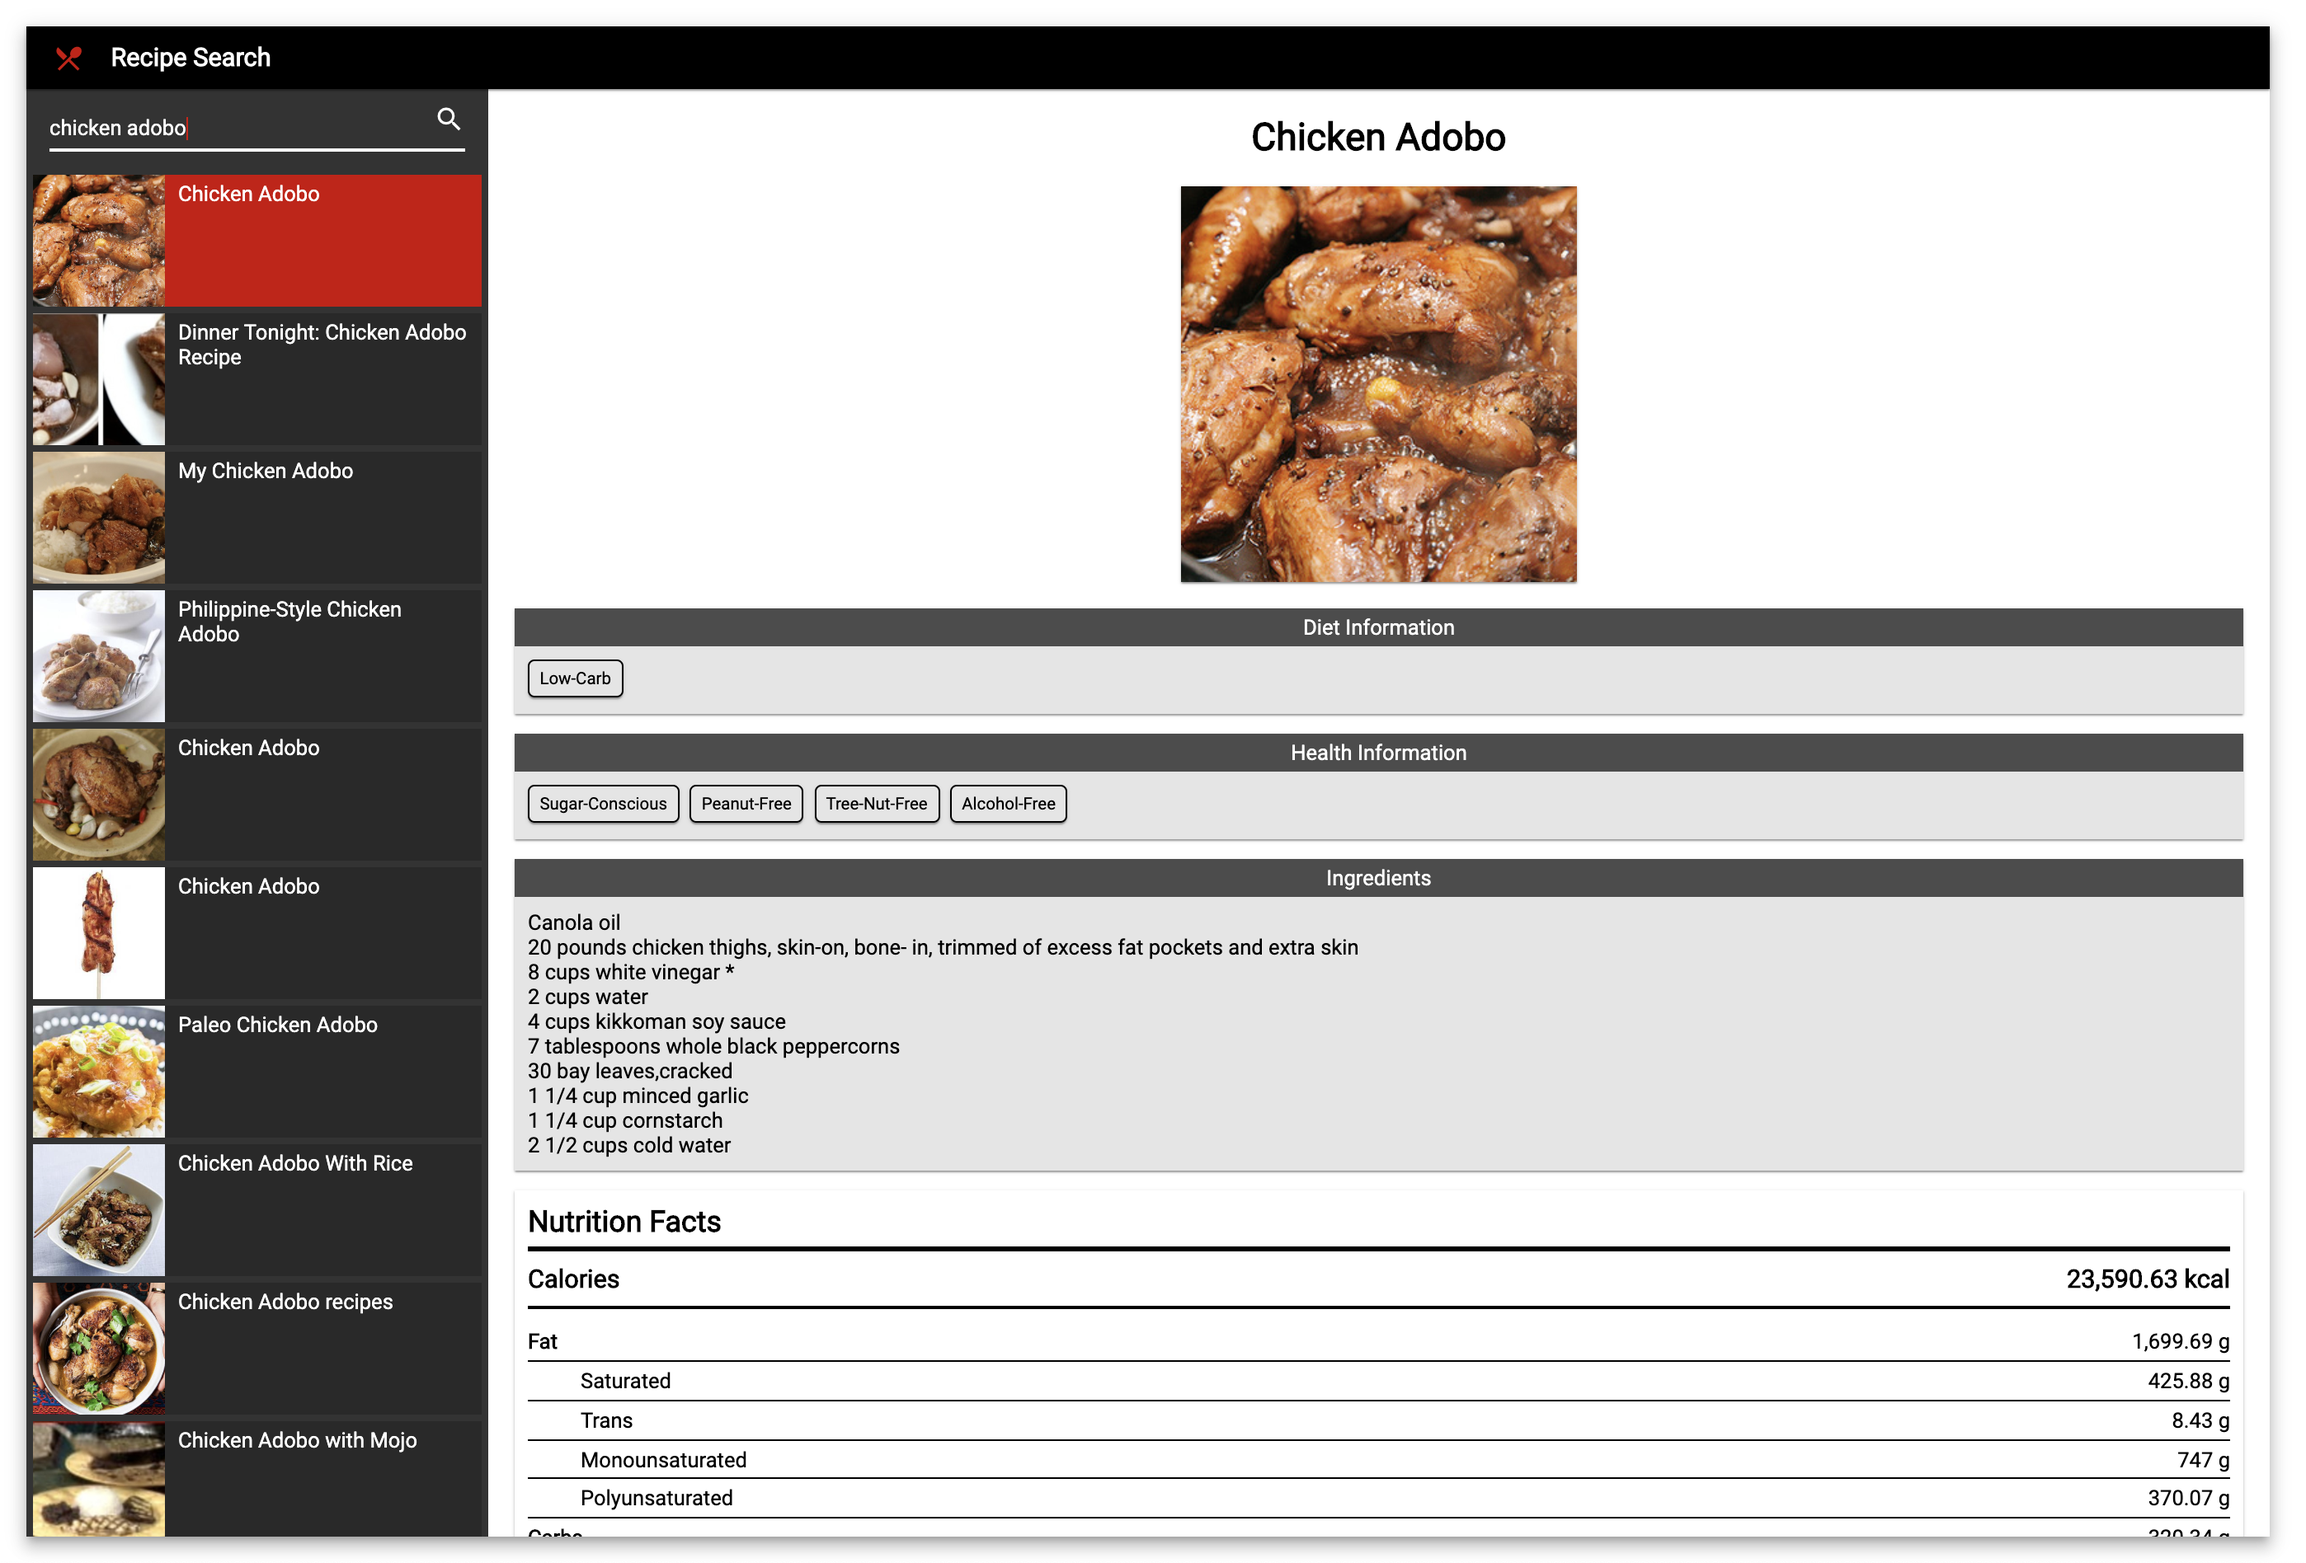
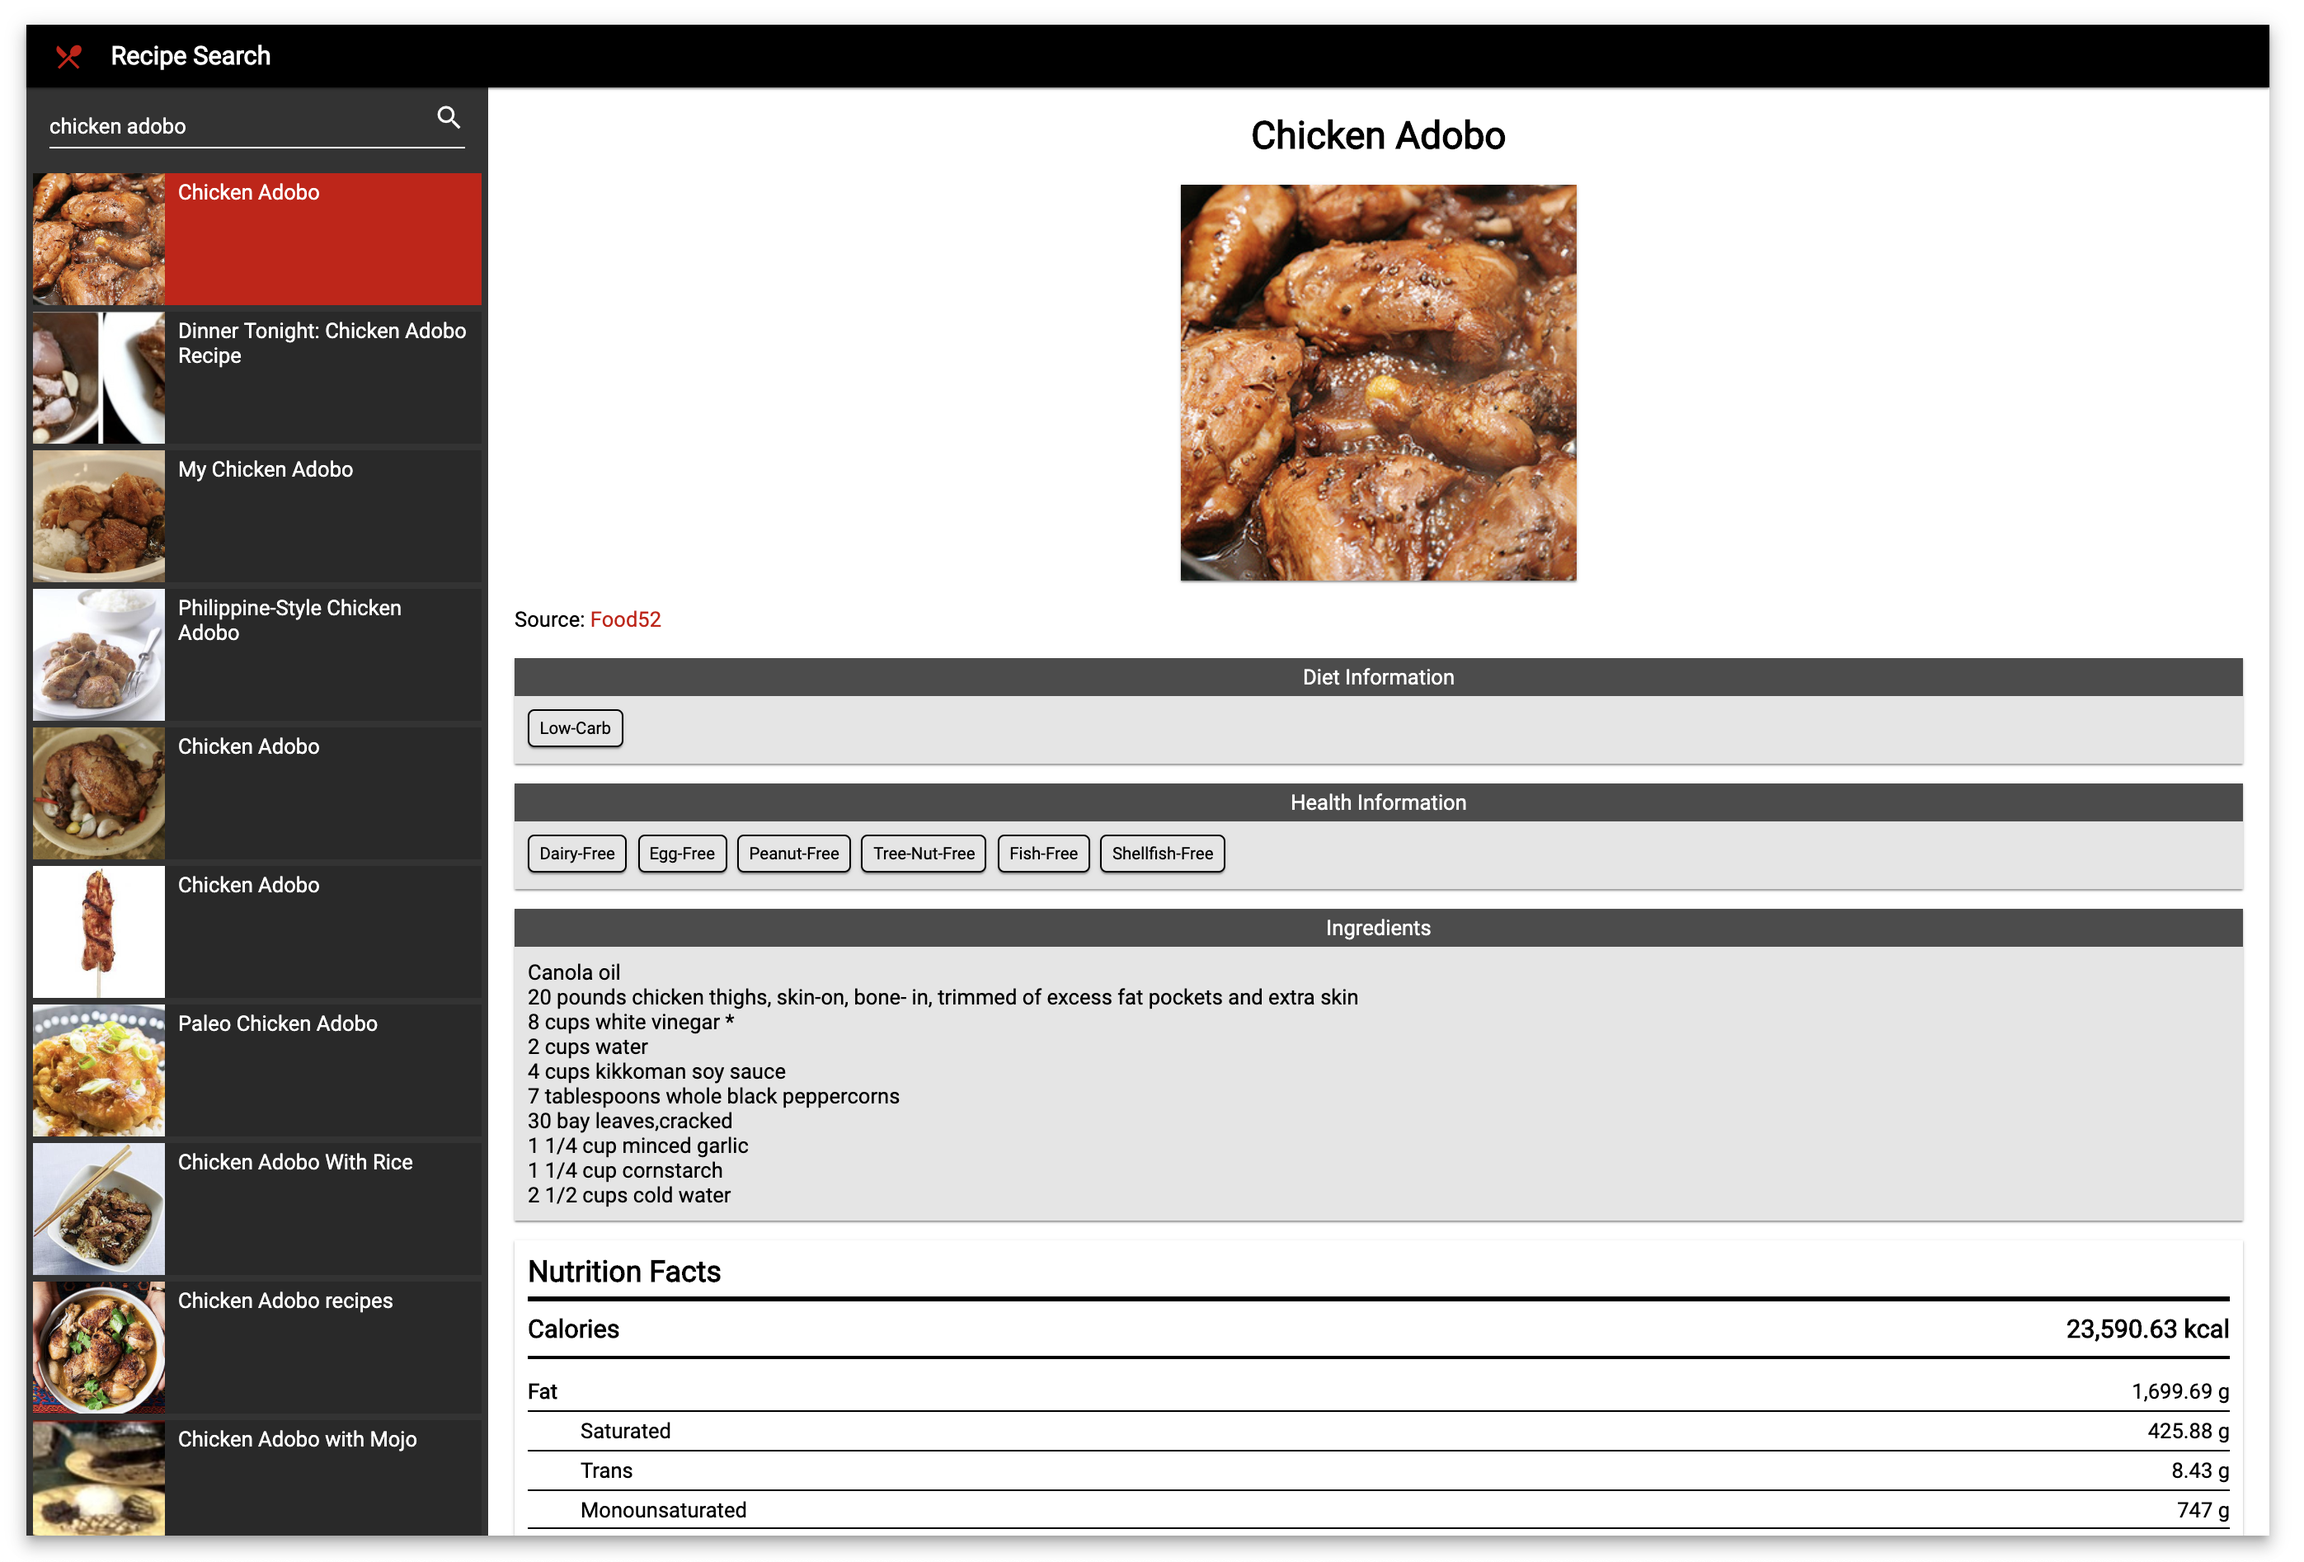
Add source and detail placeholder

diff --git a/src/app/recipe/detail/recipe-detail.component.html b/src/app/recipe/detail/recipe-detail.component.html
@@ -1,16 +1,25 @@
+<div class="detail-container" fxLayout="column" *ngIf="!selectedRecipe">
+    <div fxFlex></div>
+    <i class="material-icons no-recipe">local_dining</i>
+    <div fxFlex></div>
+</div>
 <div class="detail-container" fxLayout="column" *ngIf="selectedRecipe">
     <div class="detail-title">{{selectedRecipe.label}}</div>
     <img class="detail-image mat-elevation-z1" [src]="selectedRecipe.image"/>
+    <!-- Source -->
+    <div class="recipe-source">
+        Source:  <span class="recipe-source-link" (click)="goToLink(selectedRecipe.sourceUrl)">{{selectedRecipe.source}}</span>
+    </div>        
     <div fxFlex="10px"></div>
     <!-- Diet Label -->
-    <div class="detail-list mat-elevation-z1">
+    <div class="detail-list mat-elevation-z1" *ngIf="selectedRecipe.dietLabels?.length > 0">
         <div class="detail-list-title">Diet Information</div>
         <div class="detail-list-items">
             <div class="label mat-elevation-z1" *ngFor="let diet of selectedRecipe.dietLabels">{{diet}}</div>
         </div>
     </div>
     <!-- Health Label -->
-    <div class="detail-list mat-elevation-z1">
+    <div class="detail-list mat-elevation-z1" *ngIf="selectedRecipe.healthLabels?.length > 0">
         <div class="detail-list-title">Health Information</div>
         <div class="detail-list-items">
             <div class="label mat-elevation-z1" *ngFor="let health of selectedRecipe.healthLabels">{{health}}</div>

diff --git a/src/app/recipe/detail/recipe-detail.component.scss b/src/app/recipe/detail/recipe-detail.component.scss
@@ -2,6 +2,12 @@
     height: 100%;
 }
 
+.no-recipe {
+    margin: auto;
+    font-size: 20em;
+    color: rgba(0, 0, 0, .1);
+}
+
 .detail-title {
     font-weight: bold;
     font-size: 1.8em;
@@ -72,5 +78,18 @@
             border-bottom: 1px solid;
             padding: 5px 0;
         }
+    }
+}
+
+.recipe-source {
+    margin: 20px 20px 0 20px;
+}
+
+.recipe-source-link {
+    color: #cc0000;
+    &:hover {
+        font-weight: bold;
+        cursor: pointer;
+        color: #db4c4c;
     }
 }

diff --git a/src/app/recipe/detail/recipe-detail.component.ts b/src/app/recipe/detail/recipe-detail.component.ts
@@ -22,4 +22,8 @@ export class RecipeDetailComponent {
     indent(label: string) {
         return this.fats.includes(label) || this.carbs.includes(label);
     }
+
+    goToLink(link: string) {
+        window.open(link, '_blank');
+    }
 }
